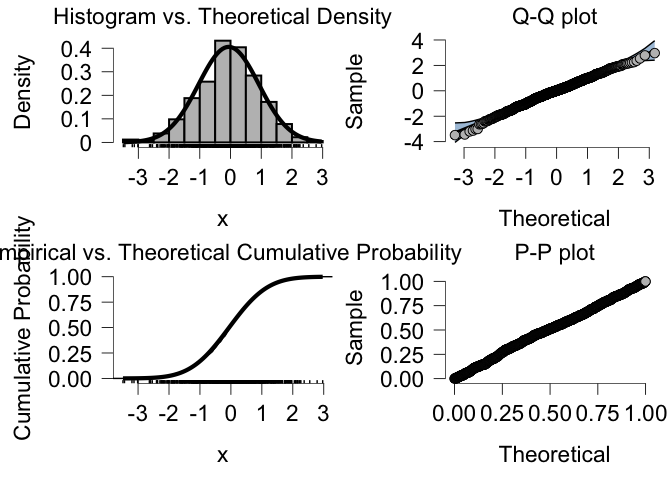
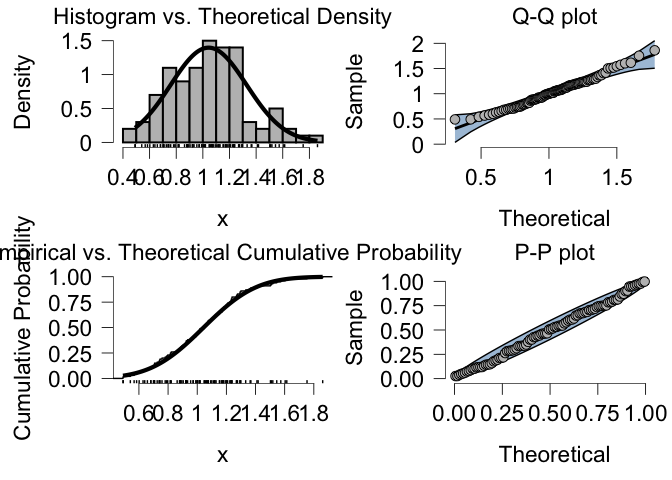
add explicit constructors to InferenceMethod to avoid failing r cmd check

diff --git a/README.md b/README.md
@@ -39,36 +39,36 @@ library(DistributionS7)
 # create a distribution object
 n <- normal(0, 1)
 
-# sample from a distribution
-x <- rng(n, 1000)
+# sample from a distribution (and distort to make the distribution not fitting well)
+x <- rng(n, 100) * 0.3 + 1
 
 # goodness-of-fit tests
 gof_test(n, x, estimated=FALSE)
-#>              test statistic   p_value
-#> ks_test   ks_test 0.0372936 0.1238460
-#> cvm_test cvm_test 0.3091308 0.1274170
-#> ad_test   ad_test 1.9198886 0.1017058
+#>              test  statistic      p_value
+#> ks_test   ks_test  0.6881246 1.485927e-41
+#> cvm_test cvm_test 16.7925722 0.000000e+00
+#> ad_test   ad_test 81.6858728 6.000000e-06
 
 # fit to data using maximum likelihood
 n <- fit_distribution(n, Mle(), x)
 
 # get uncertainty around parameter estimates using normal theory intervals
 parameter_inference(n, NormalTheory(), x)
-#>         key   label    estimate         se      lower       upper
-#> mu       mu    \\mu -0.05823803 0.03109232 -0.1191779 0.002701806
-#> sigma sigma \\sigma  0.98322554 0.02198558  0.9410652 1.027274683
+#>         key   label  estimate         se     lower     upper
+#> mu       mu    \\mu 1.0433487 0.02855216 0.9873875 1.0993099
+#> sigma sigma \\sigma 0.2855216 0.02018941 0.2485707 0.3279653
 
 # fit indices of the fitted distribution
 gof_test(n, x, estimated=TRUE)
-#>                                      test  statistic    p_value
-#> lillie_test                   lillie_test 0.02933822 0.04163899
-#> cvm_test                         cvm_test 0.14544444 0.02732160
-#> ad_test                           ad_test 0.76589234 0.04636819
-#> shapiro_wilk_test       shapiro_wilk_test 0.99695697 0.05321971
-#> shapiro_francia_test shapiro_francia_test 0.99697475 0.05275794
+#>                                      test  statistic   p_value
+#> lillie_test                   lillie_test 0.04809704 0.8242030
+#> cvm_test                         cvm_test 0.03042504 0.8395434
+#> ad_test                           ad_test 0.27591167 0.6509543
+#> shapiro_wilk_test       shapiro_wilk_test 0.98596035 0.3715832
+#> shapiro_francia_test shapiro_francia_test 0.98783881 0.4206180
 information_criteria(n, x)
 #>   n_par n_obs   log_lik      aic      bic
-#> 1     2  1000 -1402.022 2808.044 2817.859
+#> 1     2   100 -16.55009 37.10018 42.31052
 
 # compare data to distribution
 plot_empirical(n, x, ci=TRUE)
